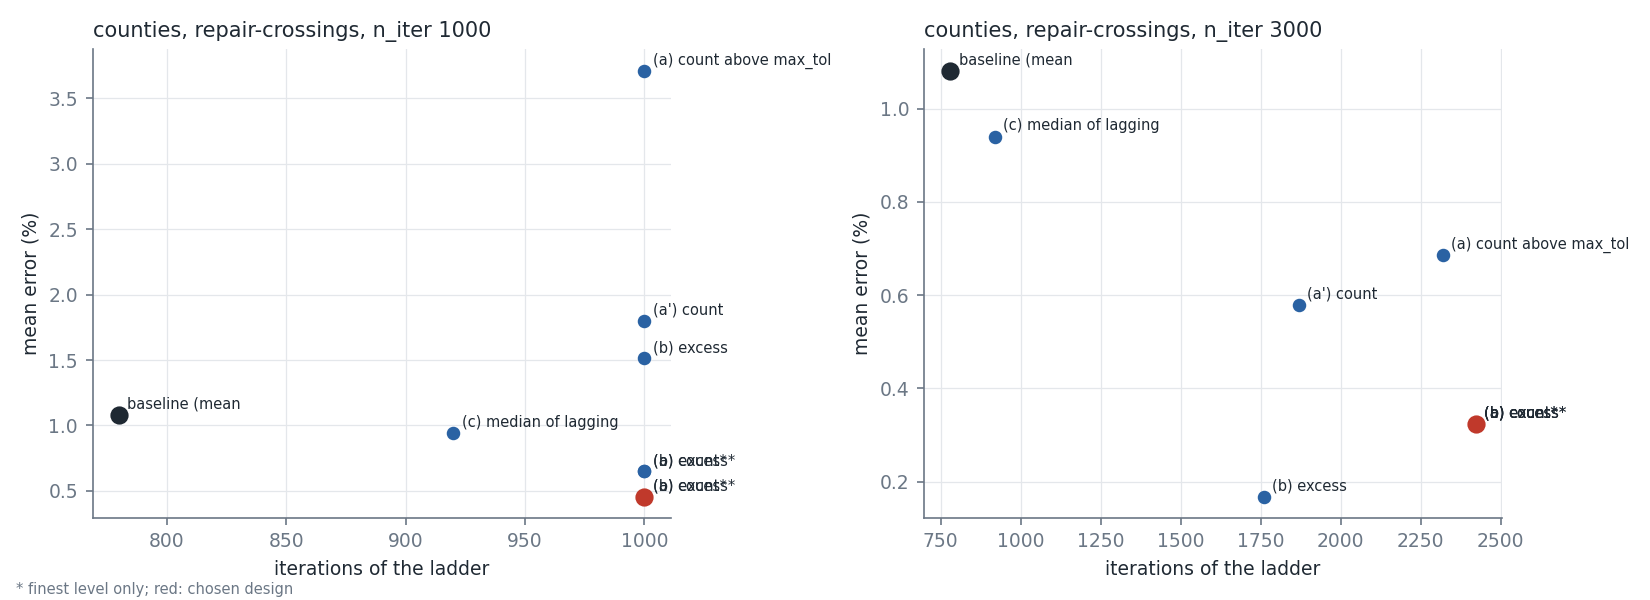
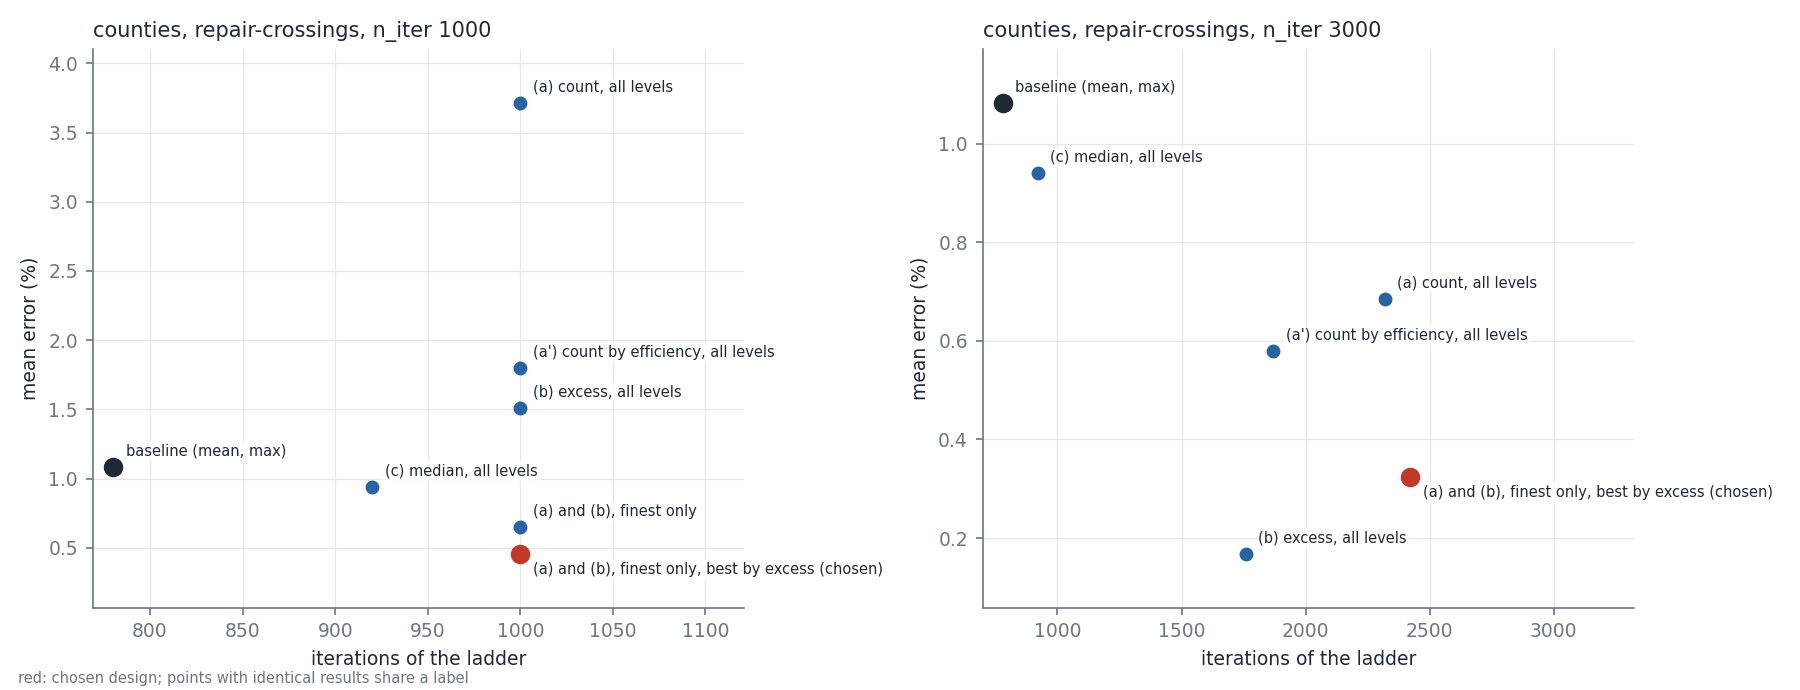
reports: non-overlapping labels in the design comparison figure

diff --git a/exploration-stall-lagging-component/tables.py b/exploration-stall-lagging-component/tables.py
@@ -24,13 +24,27 @@ for r in rows: print(f"| {r[0]} | {r[1]} | {r[2]} | {r[3]} | {r[4]} | {r[5]} | {
 json.dump(rows, open("table_rows.json", "w"))
 INK, MUTED, GRID, BLUE, RED = "#1f2933", "#6b7785", "#e4e7eb", "#2a62a3", "#c0392b"
 plt.rcParams.update({"font.size": 9, "axes.edgecolor": MUTED, "axes.labelcolor": INK, "text.color": INK, "xtick.color": MUTED, "ytick.color": MUTED, "axes.spines.top": False, "axes.spines.right": False, "axes.grid": True, "grid.color": GRID, "grid.linewidth": 0.6, "axes.axisbelow": True})
-fig, axs = plt.subplots(1, 2, figsize=(11, 4))
+SHORT = {"baseline (mean, max)": "baseline (mean, max)", "(a) count above max_tol, all levels": "(a) count, all levels", "(a') count, by efficiency, all levels": "(a') count by efficiency, all levels",
+         "(b) excess, all levels": "(b) excess, all levels", "(c) median of lagging, all levels": "(c) median, all levels",
+         "(a) count, finest level only": "(a) count, finest only", "(b) excess, finest level only": "(b) excess, finest only",
+         "(a) count, finest only, best by excess": "(a) count, finest only, best by excess", "(b) excess, finest only, best by excess = chosen": "(b) excess, finest only, best by excess"}
+fig, axs = plt.subplots(1, 2, figsize=(12, 4.6))
 for ax, b in zip(axs, (1000, 3000)):
+    groups = {}
     for r in rows:
         if r[0] != "repair-crossings" or r[1] != b: continue
-        base = r[2].startswith("baseline"); chosen = "chosen" in r[2]
-        ax.scatter(r[3], r[6], s=60 if chosen or base else 30, color=RED if chosen else (INK if base else BLUE), zorder=3)
-        ax.annotate(r[2].split(",")[0].replace("baseline (mean, max)", "baseline")[:24] + ("*" if "finest" in r[2] else ""), (r[3], r[6]), fontsize=7, xytext=(4, 3), textcoords="offset points")
+        groups.setdefault((r[3], round(r[6], 3)), []).append(r[2])
+    for (x, y), names in groups.items():
+        chosen = any("chosen" in n for n in names); base = any(n.startswith("baseline") for n in names)
+        ax.scatter(x, y, s=70 if chosen or base else 32, color=RED if chosen else (INK if base else BLUE), zorder=3)
+        finest = [n for n in names if "finest" in n]
+        if len(finest) > 1:  # count and excess give the same run
+            label = "(a) and (b), finest only" + (", best by excess" if any("best by excess" in n for n in finest) else "") + (" (chosen)" if chosen else "")
+        else:
+            label = "\n".join(SHORT[n] for n in names)
+        ax.annotate(label, (x, y), fontsize=7, xytext=(6, -4 if chosen else 4), textcoords="offset points", ha="left", va="top" if chosen else "bottom", bbox=dict(boxstyle="round,pad=0.15", fc="white", ec="none", alpha=0.8))
+    xs = [k[0] for k in groups]; ax.set_xlim(min(xs) - 0.05 * (max(xs) - min(xs)), max(xs) + 0.55 * (max(xs) - min(xs)))
+    ys = [k[1] for k in groups]; ax.set_ylim(min(ys) - 0.12 * (max(ys) - min(ys)), max(ys) + 0.12 * (max(ys) - min(ys)))
     ax.set_xlabel("iterations of the ladder"); ax.set_ylabel("mean error (%)"); ax.set_title(f"counties, repair-crossings, n_iter {b}", loc="left", fontsize=10)
-fig.text(0.01, 0.01, "* finest level only; red: chosen design", fontsize=7, color=MUTED)
+fig.text(0.01, 0.01, "red: chosen design; points with identical results share a label", fontsize=7, color=MUTED)
 fig.tight_layout(); fig.savefig("fig1_designs.png", dpi=150)
